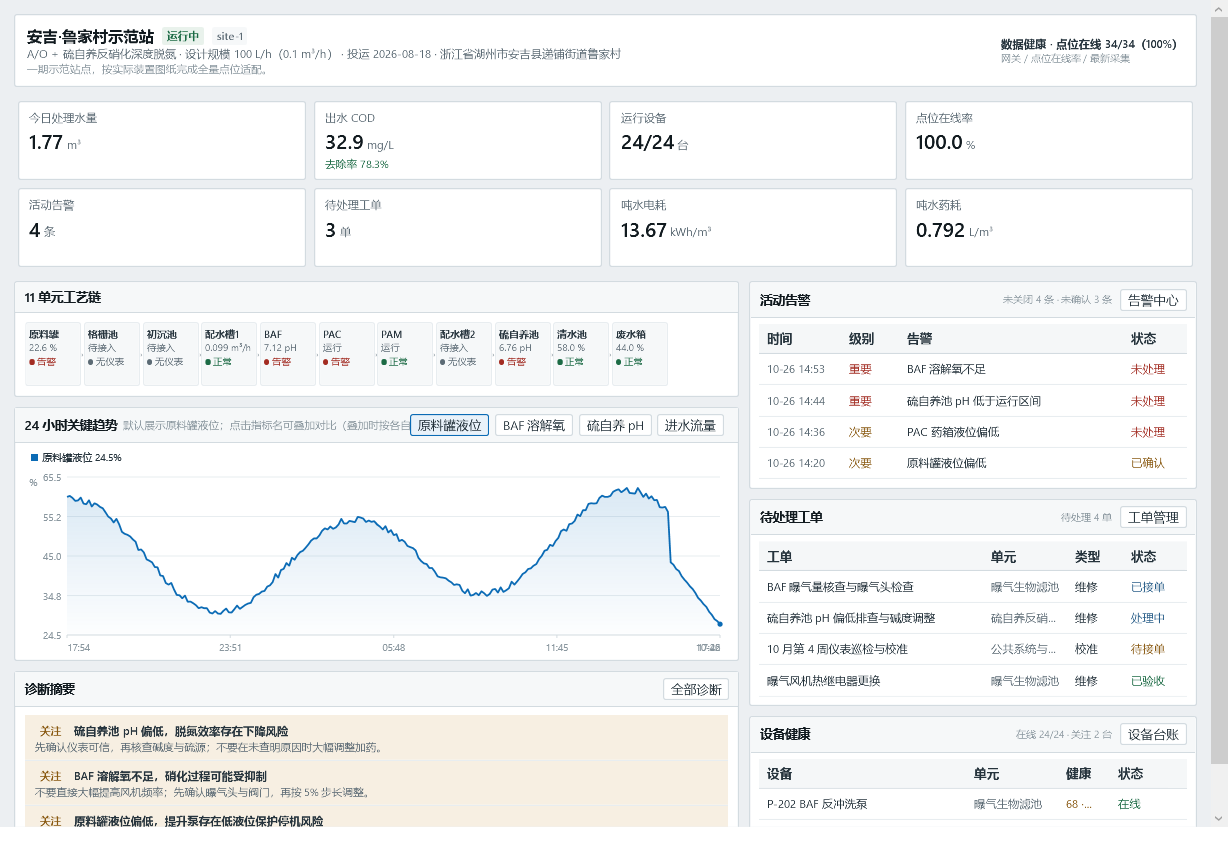
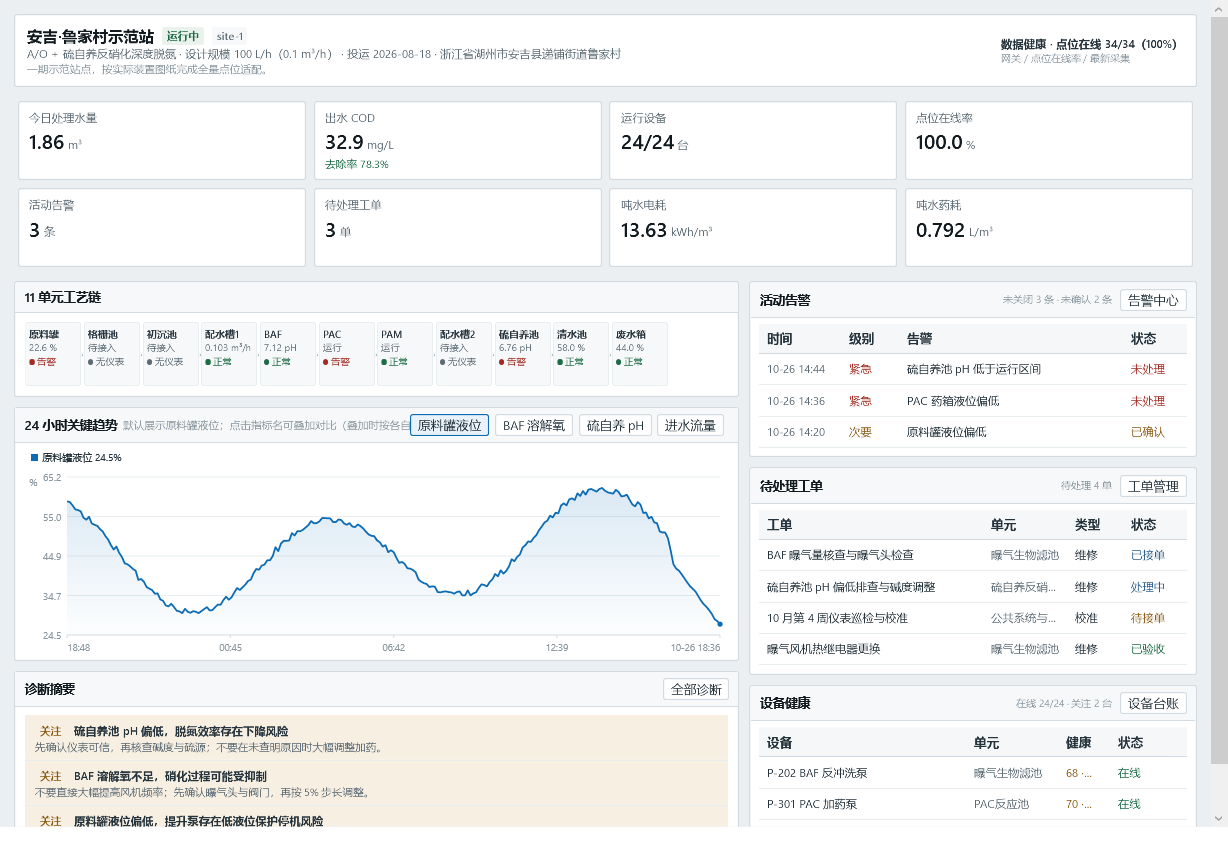
fix(desktop): 修复驾驶舱趋势图跨天时横轴时间与日期标签重叠；版本 2.0.4

diff --git a/native/ZhifuWater.Desktop/Windows/MainWindow.xaml b/native/ZhifuWater.Desktop/Windows/MainWindow.xaml
@@ -35,7 +35,7 @@
                 <Border DockPanel.Dock="Bottom" Padding="12,7,12,9">
                     <StackPanel>
                         <TextBlock x:Name="SidebarSource" FontSize="9.5" Foreground="#7E939D" TextWrapping="Wrap" />
-                        <TextBlock Text="v2.0.3" FontSize="9.5" Foreground="#5D727B" Margin="0,2,0,0" />
+                        <TextBlock Text="v2.0.4" FontSize="9.5" Foreground="#5D727B" Margin="0,2,0,0" />
                     </StackPanel>
                 </Border>
 

diff --git a/native/ZhifuWater.Desktop/Windows/LoginWindow.xaml b/native/ZhifuWater.Desktop/Windows/LoginWindow.xaml
@@ -69,7 +69,7 @@
             </StackPanel>
         </Border>
 
-        <TextBlock Text="v2.0.3"
+        <TextBlock Text="v2.0.4"
                    FontSize="10.5" Foreground="{DynamicResource Muted2}"
                    HorizontalAlignment="Center" VerticalAlignment="Bottom" Margin="0,0,0,16" />
     </Grid>

diff --git a/native/ZhifuWater.Desktop/Ui/Charts.cs b/native/ZhifuWater.Desktop/Ui/Charts.cs
@@ -1,4 +1,4 @@
-using System;
+using System;
 using System.Collections.Generic;
 using System.Globalization;
 using System.Linq;
@@ -127,6 +127,9 @@ public sealed class LineChart : FrameworkElement
 
         // 横轴时间标签
         var labelCount = w > 700 ? 5 : 4;
+        var crossesDay = byTime && (maxT - minT) <= 26L * 3600 * 1000
+            && DateTimeOffset.FromUnixTimeMilliseconds((long)minT).LocalDateTime.Date
+               != DateTimeOffset.FromUnixTimeMilliseconds((long)maxT).LocalDateTime.Date;
         for (var i = 0; i < labelCount; i++)
         {
             var frac = labelCount == 1 ? 0 : i / (double)(labelCount - 1);
@@ -137,16 +140,11 @@ public sealed class LineChart : FrameworkElement
                 var span = maxT - minT;
                 var fmt = span > 26L * 3600 * 1000 ? "MM-dd" : "HH:mm";
                 var t = DateTimeOffset.FromUnixTimeMilliseconds((long)(minT + (maxT - minT) * frac)).LocalDateTime;
-                ChartDraw.Draw(this, dc, t.ToString(fmt), new Point(x, plot.Bottom + 5), 9.5, Pal.Muted2,
+                // 跨天时把日期并入最后一个刻度，避免与单独绘制的日期标签叠在同一坐标
+                var label = crossesDay && i == labelCount - 1 ? t.ToString("MM-dd HH:mm") : t.ToString(fmt);
+                ChartDraw.Draw(this, dc, label, new Point(x, plot.Bottom + 5), 9.5, Pal.Muted2,
                     i == 0 ? TextAlignment.Left : i == labelCount - 1 ? TextAlignment.Right : TextAlignment.Center);
             }
-        }
-        if (byTime && (maxT - minT) <= 26L * 3600 * 1000)
-        {
-            var first = DateTimeOffset.FromUnixTimeMilliseconds(minT).LocalDateTime;
-            var last = DateTimeOffset.FromUnixTimeMilliseconds(maxT).LocalDateTime;
-            if (last.Date != first.Date && w > 420)
-                ChartDraw.Draw(this, dc, last.ToString("MM-dd"), new Point(plot.Right, plot.Bottom + 5), 9.5, Pal.Muted2, TextAlignment.Right);
         }
 
         // 各条曲线

diff --git a/README.md b/README.md
@@ -14,11 +14,11 @@ v2.0 起提供两个**可以直接安装运行的原生 App**：
 
 | 端 | 安装包 | 说明 |
 | --- | --- | --- |
-| Windows 桌面版 | [`Qingqu-Setup-2.0.3.exe`](https://github.com/LN334/shuiwu/releases/download/v2.0.3/Qingqu-Setup-2.0.3.exe)（约 46 MB） | C# / WPF 原生程序，自包含 .NET 运行时，安装即用，无需另装 Node.js |
-| 安卓 App | [`zhifu-water-mobile.apk`](https://github.com/LN334/shuiwu/releases/download/v2.0.3/zhifu-water-mobile.apk)（约 151 KB） | 原生 Android（Java + 框架 API，**非 WebView**）；内置本机引擎，不填服务器就能用 |
+| Windows 桌面版 | [`Qingqu-Setup-2.0.4.exe`](https://github.com/LN334/qingqu/releases/download/v2.0.4/Qingqu-Setup-2.0.4.exe)（约 46 MB） | C# / WPF 原生程序，自包含 .NET 运行时，安装即用，无需另装 Node.js |
+| 安卓 App | [`zhifu-water-mobile.apk`](https://github.com/LN334/qingqu/releases/download/v2.0.4/zhifu-water-mobile.apk)（约 151 KB） | 原生 Android（Java + 框架 API，**非 WebView**）；内置本机引擎，不填服务器就能用 |
 | Web 版 | 本仓库源码 | `node server/index.js`，浏览器打开 `http://127.0.0.1:8765` |
 
-> 全部版本与 SHA256 见 [Releases · v2.0.3](https://github.com/LN334/shuiwu/releases/tag/v2.0.3)。仓库不提交二进制产物（见 `.gitignore`），也可按「构建」章节自行打包。
+> 全部版本与 SHA256 见 [Releases · v2.0.4](https://github.com/LN334/qingqu/releases/tag/v2.0.4)。仓库不提交二进制产物（见 `.gitignore`），也可按「构建」章节自行打包。
 
 ---
 
@@ -26,7 +26,7 @@ v2.0 起提供两个**可以直接安装运行的原生 App**：
 
 ### 方式一：Windows 桌面版（推荐）
 
-1. 下载 `Qingqu-Setup-2.0.3.exe`，双击安装（可选择安装目录、创建桌面与开始菜单快捷方式）。
+1. 下载 `Qingqu-Setup-2.0.4.exe`，双击安装（可选择安装目录、创建桌面与开始菜单快捷方式）。
 2. 从桌面「清渠」启动。原生窗口，不需要浏览器、不需要 Node.js。
 3. 用演示账号登录；首次启动会把内置种子数据复制到 `%LOCALAPPDATA%\ZhifuWater\data\db.json`，之后的数据读写都在本机。
 
@@ -158,7 +158,7 @@ native\publish\Qingqu.exe --smoke
 
 # 安装包（NSIS）
 & "C:\Program Files (x86)\NSIS\makensis.exe" native\installer\setup.nsi
-# 产物：native/installer/Qingqu-Setup-2.0.3.exe
+# 产物：native/installer/Qingqu-Setup-2.0.4.exe
 ```
 
 ### 安卓端（需 JDK 17 + Android SDK build-tools/platform 34）
